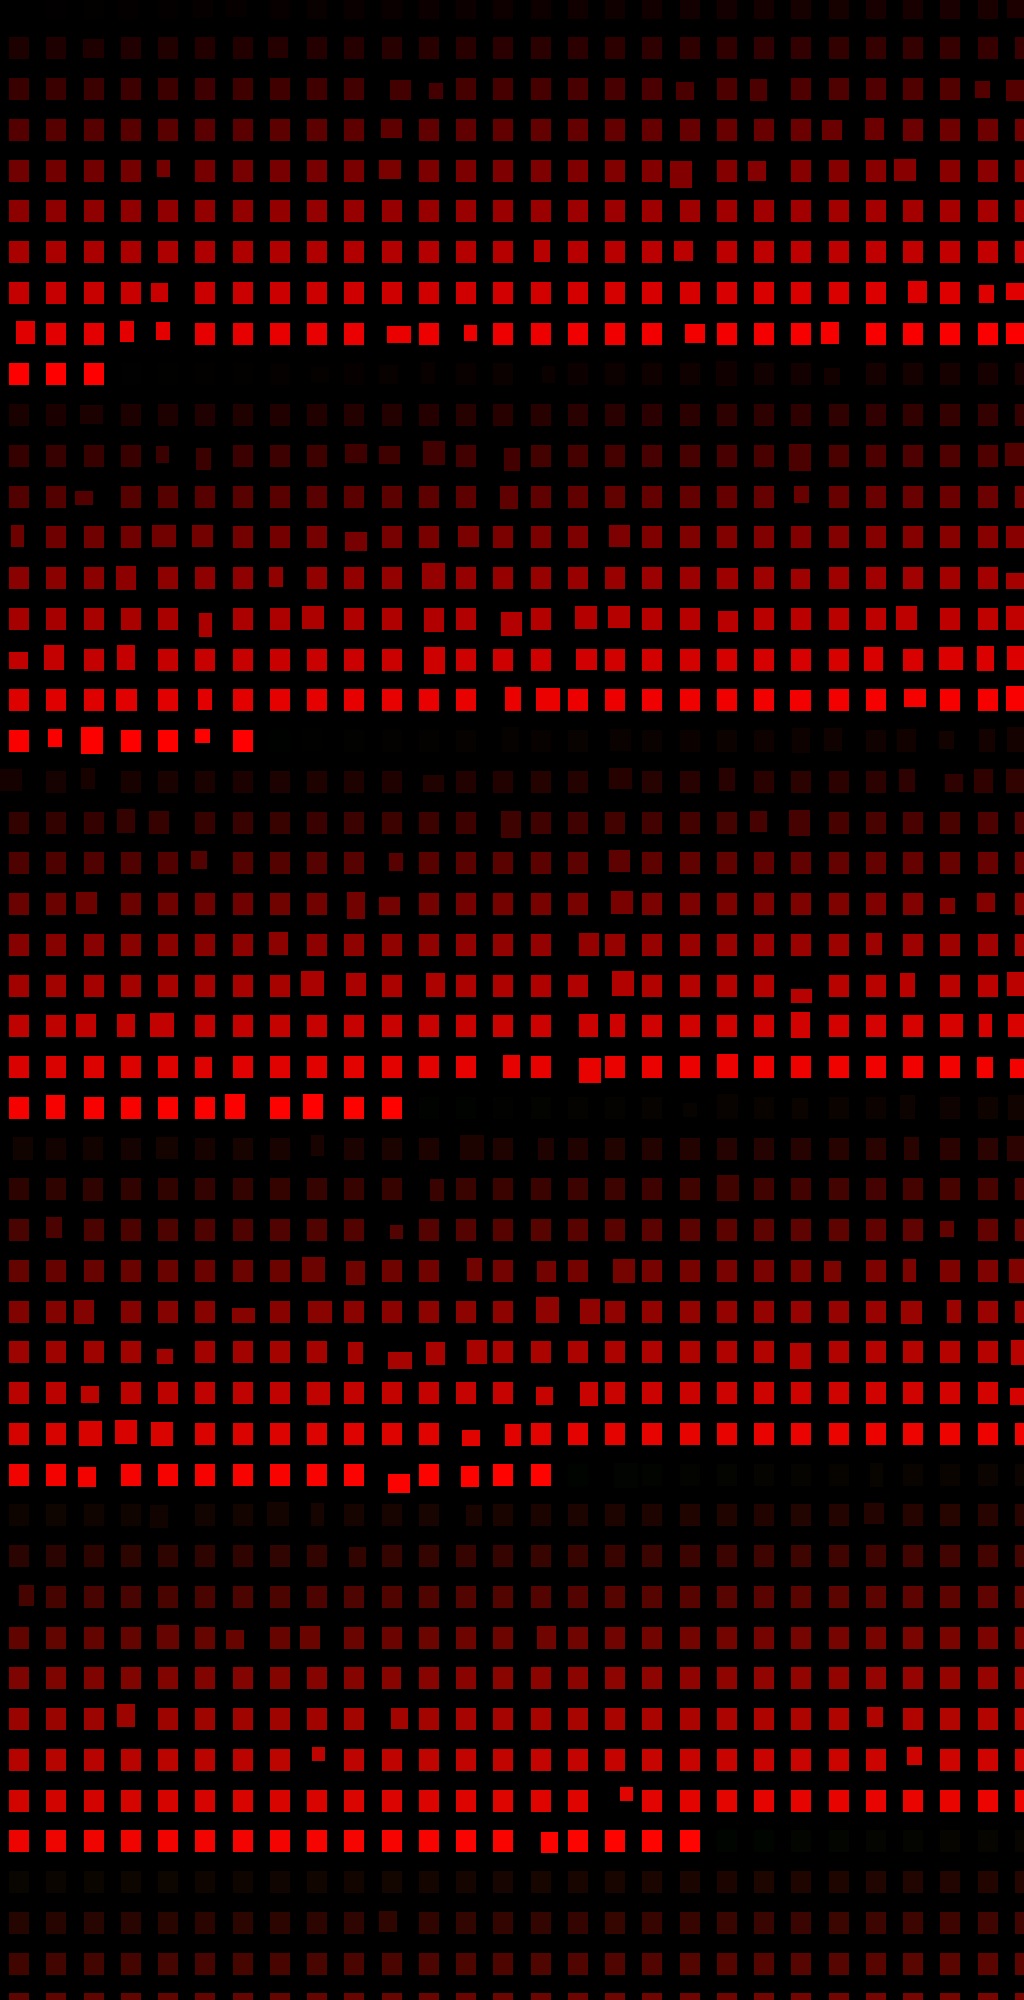
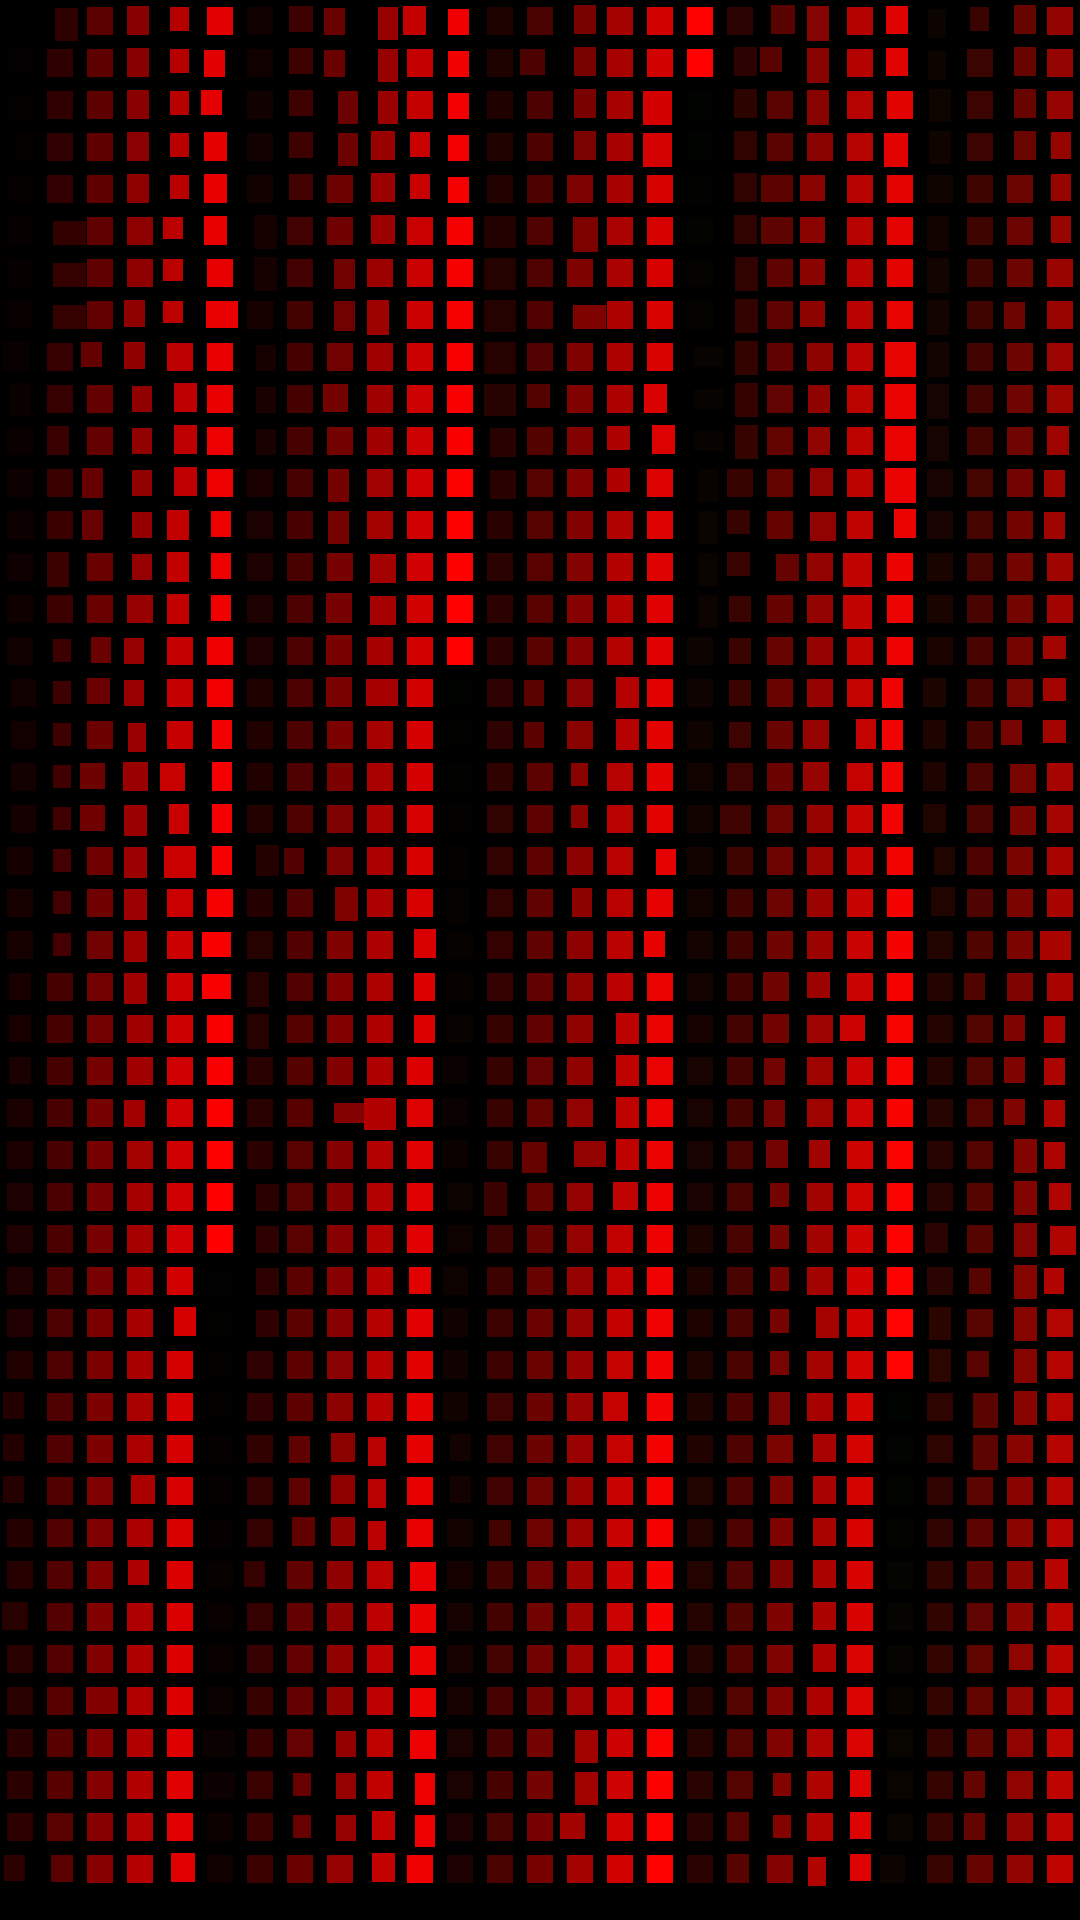
v2.55: Windows city composed from window sprites on one grid; palette presets applied on every open

diff --git a/index.html b/index.html
@@ -4,9 +4,9 @@
 <meta charset="utf-8">
 <meta name="viewport" content="width=device-width, initial-scale=1">
 <title>Generative Art v002</title>
-<meta name="build" content="20261107020000">
-<script type="importmap">{"imports":{"three":"https://cdn.jsdelivr.net/npm/three@0.160.0/build/three.module.js","three/addons/":"https://cdn.jsdelivr.net/npm/three@0.160.0/examples/jsm/","./ui.js":"./ui.js?b=20261107020000","./palette.js":"./palette.js?b=20261107020000","./colorwheel.js":"./colorwheel.js?b=20261107020000","./depthmodel.js":"./depthmodel.js?b=20261107020000"}}</script>
-<link rel="stylesheet" href="css/main.css?b=20261107020000">
+<meta name="build" content="20261107040000">
+<script type="importmap">{"imports":{"three":"https://cdn.jsdelivr.net/npm/three@0.160.0/build/three.module.js","three/addons/":"https://cdn.jsdelivr.net/npm/three@0.160.0/examples/jsm/","./ui.js":"./ui.js?b=20261107040000","./palette.js":"./palette.js?b=20261107040000","./colorwheel.js":"./colorwheel.js?b=20261107040000","./depthmodel.js":"./depthmodel.js?b=20261107040000"}}</script>
+<link rel="stylesheet" href="css/main.css?b=20261107040000">
 </head>
 <body>
 <div id="app">
@@ -20,7 +20,7 @@
     <div class="row"><span class="row" id="versions"></span><button id="nodebtn" type="button" data-views="dollar5,linesv2">Nodes</button><button id="setbtn" type="button">Edit</button><button id="recbtn" type="button" title="Record the picture as it plays, in real time, and save the video">Record</button></div>
     <div id="msg"></div>
     <div id="pinbox" class="pinbox" hidden><input type="password" inputmode="numeric" maxlength="4" autocomplete="off" placeholder="PIN"></div>
-    <div class="note" id="ver">Generative Art v002 · v2.54 (2026-11-07)</div>
+    <div class="note" id="ver">Generative Art v002 · v2.55 (2026-11-07)</div>
   </div>
 </div>
 

diff --git a/windows.js b/windows.js
@@ -191,8 +191,8 @@ function blurLevel(src, lv) {                                // copy (linear dow
   gl.bindFramebuffer(gl.FRAMEBUFFER, b.f); gl.bindTexture(gl.TEXTURE_2D, a.t); gl.uniform2f(UB.dir, 1.2 / a.w, 0); gl.drawArrays(gl.TRIANGLE_STRIP, 0, 4);
   gl.bindFramebuffer(gl.FRAMEBUFFER, a.f); gl.bindTexture(gl.TEXTURE_2D, b.t); gl.uniform2f(UB.dir, 0, 1.2 / a.h); gl.drawArrays(gl.TRIANGLE_STRIP, 0, 4);
 }
-// the first time this style is opened it gets the night-window palette; after that the palette is yours (it is shared by every style)
-try { if (!localStorage.getItem('pal-windows')) { loadPreset('nightlights'); localStorage.setItem('pal-windows', '1'); } } catch {}
+// this style opens with the night-window palette (the palette is shared by every style; a saved default replaces it)
+loadPreset('nightlights');   // saved defaults (Save as default) are restored later by initDefaults and win
 let pal = getPalette(); onPalette((p) => { pal = p; litUp = true; });
 const rgb = (a) => a.map((x) => x / 255);
 function lightColours() {

diff --git a/letters.js b/letters.js
@@ -38,8 +38,8 @@ const val = buildSliders(SLIDERS, P);
 const num = (id, d) => (P.on[id] === false ? d : P[id]);
 let ramp = 'coinbase';
 
-// the first time this style is opened it gets the electric blue palette; after that the palette is yours (it is shared by every style)
-try { if (!localStorage.getItem('pal-letters')) { loadPreset('electric'); localStorage.setItem('pal-letters', '1'); } } catch {}
+// this style opens with the electric blue palette (the palette is shared by every style; a saved default replaces it)
+loadPreset('electric');   // saved defaults (Save as default) are restored later by initDefaults and win
 
 let depthNew = false, depthOn = false;
 const DM = createDepthModel((id, def) => (id === 'dpw' ? 0 : def), () => { depthNew = true; });

diff --git a/README.md b/README.md
@@ -168,3 +168,8 @@ Setting `Live strokes` to 1 now also raises the Overlay Strength to 1 if it was 
 - New style **Camera** (`camera.js`): just the camera in real time, with a light grade (brightness, contrast, saturation, gamma, zoom, shift, and a palette duotone). It is the clean base for recording.
 - **Record** button next to Edit, in every style: records the picture as it plays (real time) and saves an MP4 (WebM where the browser has no MP4 recorder). The recorder copies the canvas into its own 2D canvas every frame and records that, because recording a WebGL canvas directly came out empty. Lines V2 / Dollar 5 now keep their drawing buffer so they can be copied. Tested saving a non-empty file in Letters; the other styles and playback were not checked.
 - Depth 3D: the view is frontal (Turn, Tilt and Sway default to 0, dragging no longer orbits) and the depth amount default is 0.3 (was 0.9), so a person is not stretched back toward the wall.
+
+## A city built from window sprites (v2.55)
+
+- The Windows picture is no longer one generated photograph: it is composed from window sprites cut out of `Ref/Firefly_ night photograph_windows.png` (425 windows with their piece of wall, the lit ones left out). They are pasted onto one exact grid (27 columns by 46 rows, 1,215 windows) as 15 buildings in three layers, as if a 300mm lens had stacked a few buildings into one flat wall: a hazy back layer at full height, a middle layer and a front layer with their roofs at different rows and a dark parapet at each roof edge. Each building has its own tint, brightness and mix of window types, and windows repeat down a column like in a real building. Every window sits on the grid, so the lights of the person line up with them. The compose script is local (`camera-motion/win/compose.py`); a different seed gives a different city.
+- Fix: Letters and Windows apply their palette preset on every open (it was applied only on the first visit, and the palette itself is not kept between visits, so later visits fell back to the classic palette). A palette saved with Save as default still wins.
